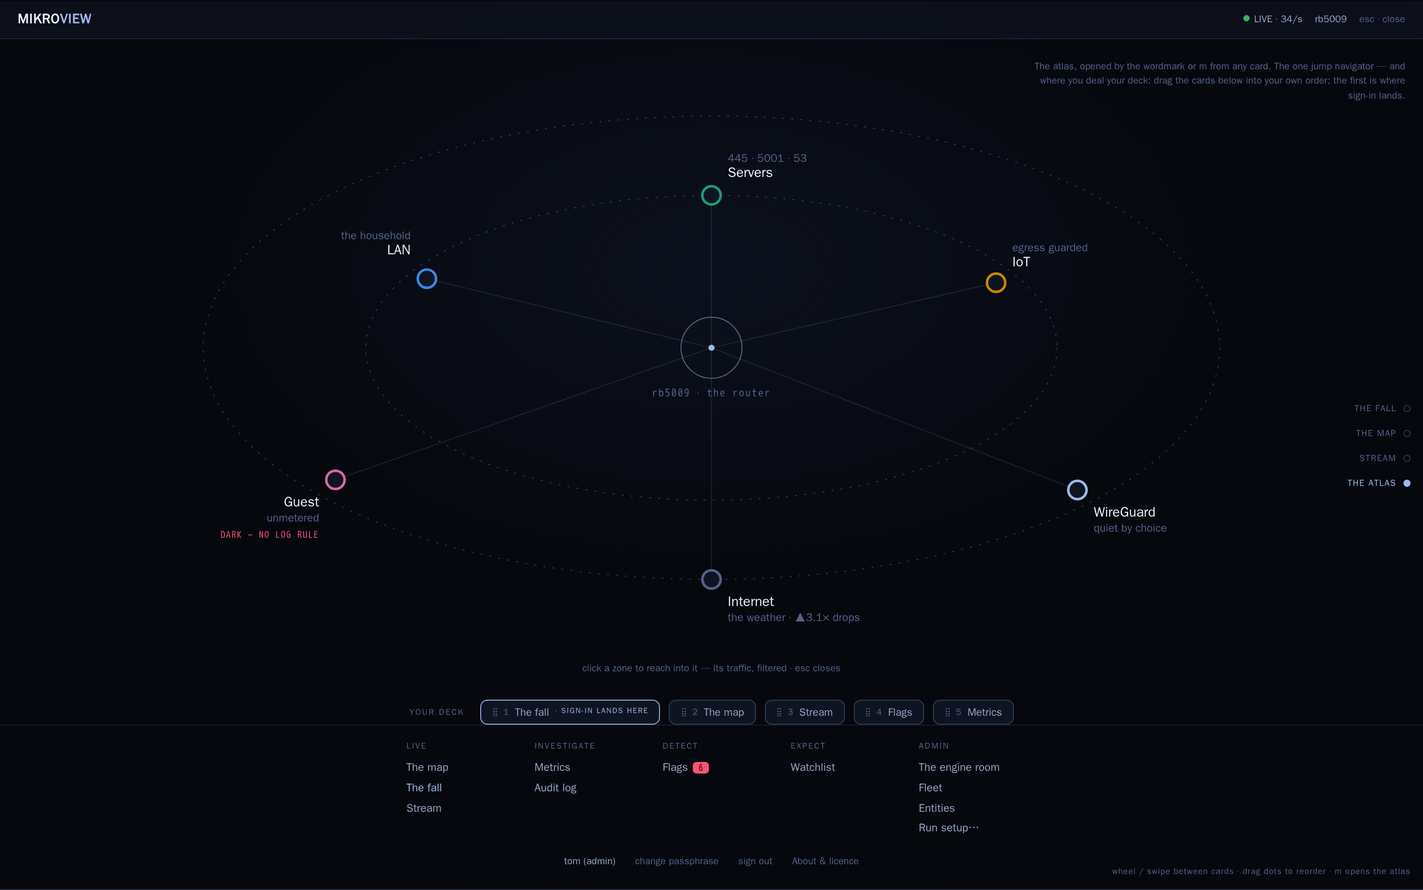
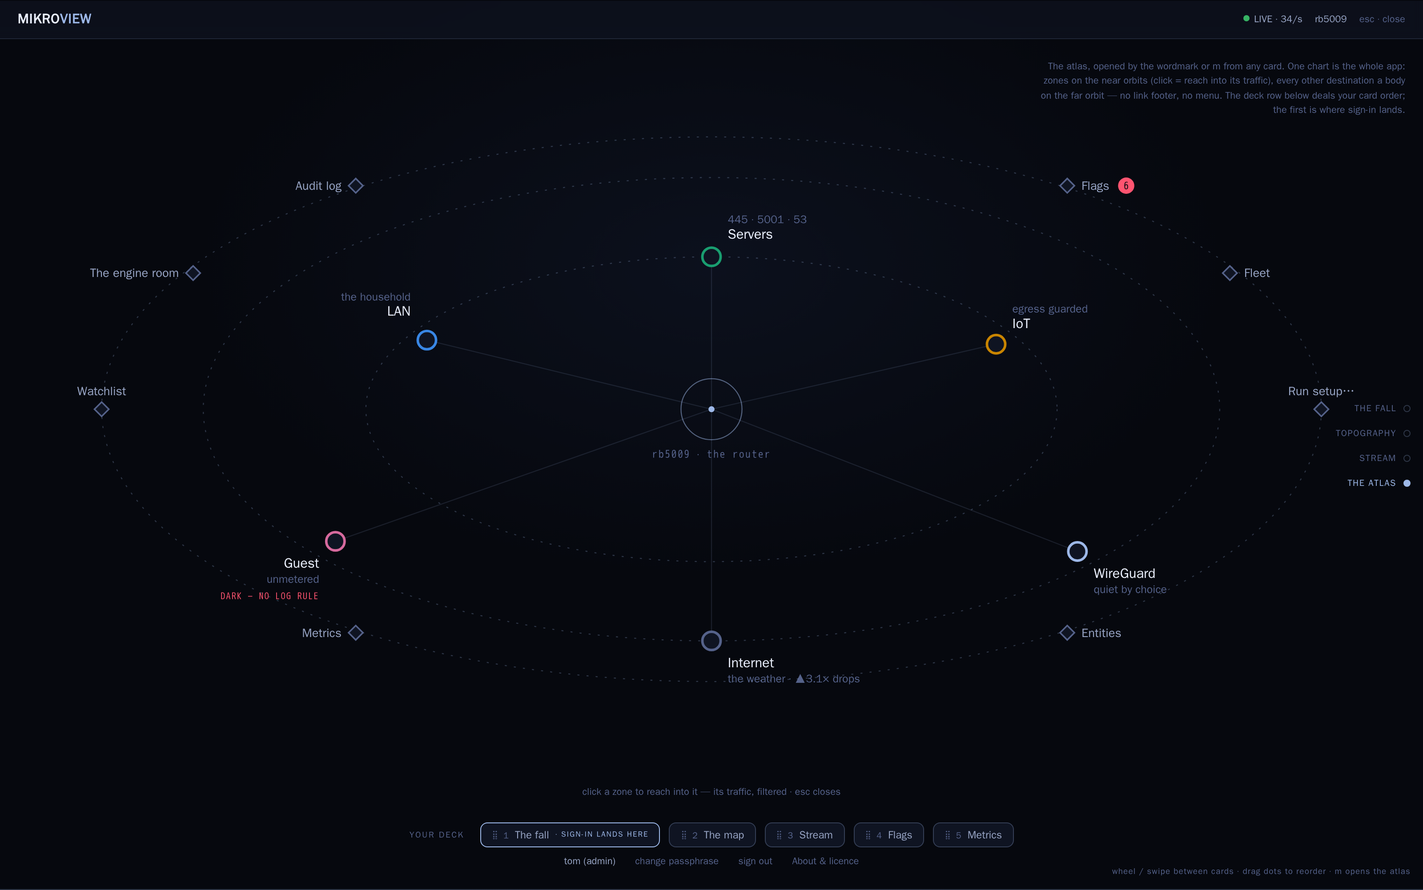
Round 5: topography EXPLORE/ORBIT toggle and far-orbit destinations (#634)

diff --git a/docs/design/concepts/round-5/the-deck.html b/docs/design/concepts/round-5/the-deck.html
@@ -52,7 +52,7 @@
   .scene { min-height: 100vh; position: relative; border-bottom: 1px solid var(--hair-2); overflow: hidden; }
   .scene-tag {
     position: absolute; top: 14px; right: 20px; z-index: 5; max-width: 420px; text-align: right;
-    font-size: 11px; color: var(--ink-3);
+    font-size: 11px; color: var(--ink-3); pointer-events: none;
   }
 
   /* ---- the scene bar: every scene's own chrome, no rail, no toolbar ---- */
@@ -188,6 +188,20 @@
   .fall-legend .r { color: var(--fall-drop); }
   .fall-legend .v { color: #a78bfa; }
 
+  /* ---- the topography card: one graph, two angles ---- */
+  .modechip {
+    margin-left: 18px; font: 600 10.5px var(--mono); letter-spacing: 0.08em;
+    color: var(--accent); background: var(--raised); border: 1px solid var(--hair-2);
+    border-radius: 14px; padding: 3px 14px; cursor: pointer;
+  }
+  #topo .node { transition: transform 0.7s cubic-bezier(0.6, 0, 0.2, 1); transform: var(--ex); }
+  #topo.orbitmode .node { transform: var(--gr); }
+  #topo .isl-card, #topo .g-dot, #topo .exlayer, #topo .grlayer { transition: opacity 0.55s ease; }
+  #topo .g-dot, #topo .grlayer { opacity: 0; pointer-events: none; }
+  #topo.orbitmode .g-dot, #topo.orbitmode .grlayer { opacity: 1; }
+  #topo.orbitmode .isl-card, #topo.orbitmode .exlayer { opacity: 0; pointer-events: none; }
+  @media (prefers-reduced-motion: reduce) { #topo .node { transition: none; } }
+
   /* ---- the deck: snap + the rail ---- */
   html { scroll-snap-type: y mandatory; }
   .scene { scroll-snap-align: start; scroll-snap-stop: always; }
@@ -208,6 +222,12 @@
   .deckorder .card .grip { color: var(--ink-3); letter-spacing: -1px; }
   .deckorder .first { border-color: var(--accent); }
   .deckorder .first .tag { font-size: 8.5px; color: var(--accent); letter-spacing: 0.12em; }
+  .faro-orbit { stroke: var(--hair); }
+  .dest .dg { fill: var(--raised); stroke: var(--ink-3); stroke-width: 1.5; transform: rotate(45deg); }
+  .dest .dest-l { font: 600 12px var(--sans); fill: var(--ink-2); }
+  .dest .dest-b { font: 700 10px var(--mono); fill: var(--void); }
+  .dest:hover .dg { stroke: var(--accent); }
+  .dest:hover .dest-l { fill: var(--ink); }
 
   /* ---- scene 3: the atlas overlay ---- */
   .atlas { min-height: 100vh; display: flex; flex-direction: column; background: radial-gradient(900px 540px at 50% 30%, rgba(80, 115, 205, 0.08), transparent 65%), var(--void); }
@@ -271,7 +291,7 @@
 <div class="concept">
   <b>DIRECTION R</b> The deck — every scene a full-viewport card, scroll-snapped, in the order you choose; sign-in lands on your first card.
   <span style="margin-left:auto">
-    <a href="#s1">door</a><a href="#s2">the fall</a><a href="#s3">the map</a><a href="#s4">stream</a><a href="#s5">the atlas</a>
+    <a href="#s1">door</a><a href="#s2">the fall</a><a href="#s3">topography</a><a href="#s4">stream</a><a href="#s5">the atlas</a>
   </span>
 </div>
 
@@ -477,12 +497,12 @@
   </div>
 </section>
 
-<!-- ============ SCENE 2 : ARRIVAL — THE MAP IS HOME ============ -->
-<section class="scene" id="s3" aria-label="Arrival: the map, the whole network at a glance">
-  <div class="scene-tag" style="top:66px">The map card: your network as the standing fact, the stream underfoot. In the deck it sits wherever you put it.</div>
+<!-- ============ SCENE 3 : TOPOGRAPHY — ONE GRAPH, TWO ANGLES ============ -->
+<section class="scene" id="s3" aria-label="Topography: one graph, two angles — explore and orbit">
+  <div class="scene-tag" style="top:66px">The topography card: one graph, two viewing angles. EXPLORE is the drawn map; ORBIT is the same shape reduced — the atlas's own chart. The toggle really works here: click it and the nodes travel. Same nodes, same adjacency, one mental model.</div>
   <div class="scenebar">
     <span class="wordmark">MIKRO<em>VIEW</em><span class="hintkey">M · ATLAS</span></span>
-    <span class="scname">The map<span class="epi">your network, drawn from its own rules</span></span>
+    <span class="scname">Topography<span class="epi">your network, drawn from its own rules</span></span>
     <span class="scstatus">
       <span><span class="dot"></span>LIVE · 34/s</span>
       <span>rb5009 · RouterOS 7.20.1</span>
@@ -492,104 +512,138 @@
   </div>
   <div class="lenses">
     <span class="lens on">Traffic</span><span class="lens">Policy</span><span class="lens">Coverage</span><span class="lens">Flags<span class="ct">6</span></span><span class="lens">Watch</span>
+    <button class="modechip" id="modechip" onclick="document.getElementById('topo').classList.toggle('orbitmode'); this.textContent = document.getElementById('topo').classList.contains('orbitmode') ? '◍ ORBIT — click for EXPLORE' : '⊕ EXPLORE — click for ORBIT'">⊕ EXPLORE — click for ORBIT</button>
   </div>
 
-  <div class="stage">
+  <div class="stage" id="topo">
     <svg viewBox="0 0 1400 620" preserveAspectRatio="xMidYMid meet" role="img"
-         aria-label="The network map: internet above, router centre, four lanes below, WireGuard at the side. One red arc — an unplanned IoT to LAN flow — is the only saturated element.">
-      <path class="rib" d="M700 104 V 232" stroke="var(--accent)" stroke-width="3.5"/>
-      <path class="rib" d="M645 302 C 565 380, 355 410, 285 480" stroke="var(--lan)" stroke-width="3.5"/>
-      <path class="rib" d="M683 302 C 653 380, 595 420, 577 480" stroke="var(--srv)" stroke-width="2.4"/>
-      <path class="rib" d="M718 302 C 748 380, 818 420, 848 480" stroke="var(--iot)" stroke-width="1.7"/>
-      <path class="rib" d="M756 302 C 846 375, 1050 405, 1116 480" stroke="var(--guest)" stroke-width="1.7"/>
-      <path class="rib" d="M1080 158 C 990 196, 880 232, 830 252" stroke="var(--lan)" stroke-width="1.7"/>
-      <path class="rib-ghost" d="M1100 165 C 945 290, 705 380, 610 476"/>
-      <path class="rib-alarm" d="M828 486 C 725 385, 405 385, 302 486"/>
-
-      <g aria-hidden="true">
-        <circle class="mote" r="2.5" fill="var(--accent)" style="offset-path: path('M700 104 V 232'); animation: travel 1.8s linear infinite;"/>
-        <circle class="mote" r="2.5" fill="var(--lan)" style="offset-path: path('M645 302 C 565 380, 355 410, 285 480'); animation: travel 2.4s linear infinite;"/>
-        <circle class="mote" r="2.2" fill="var(--srv)" style="offset-path: path('M683 302 C 653 380, 595 420, 577 480'); animation: travel 2.8s linear infinite;"/>
-        <circle class="mote" r="2" fill="var(--iot)" style="offset-path: path('M718 302 C 748 380, 818 420, 848 480'); animation: travel 3.4s linear infinite;"/>
-        <circle class="mote" r="2" fill="var(--guest)" style="offset-path: path('M756 302 C 846 375, 1050 405, 1116 480'); animation: travel 3.8s linear infinite;"/>
-        <circle class="mote" r="3" fill="var(--alarm)" style="filter:drop-shadow(0 0 5px var(--alarm)); offset-path: path('M828 486 C 725 385, 405 385, 302 486'); animation: travel 1.9s linear infinite;"/>
+         aria-label="The network as one graph, in two angles: the drawn map, and the same shape reduced to orbits.">
+      <g class="grlayer" aria-hidden="true">
+        <ellipse class="orbit" cx="700" cy="300" rx="340" ry="150"/>
+        <ellipse class="orbit" cx="700" cy="300" rx="500" ry="228"/>
+        <line class="zrib" x1="700" y1="300" x2="420" y2="205"/>
+        <line class="zrib" x1="700" y1="300" x2="700" y2="150"/>
+        <line class="zrib" x1="700" y1="300" x2="980" y2="205"/>
+        <line class="zrib" x1="700" y1="300" x2="330" y2="420"/>
+        <line class="zrib" x1="700" y1="300" x2="1070" y2="420"/>
+        <line class="zrib" x1="700" y1="300" x2="700" y2="528"/>
+      </g>
+      <g class="exlayer">
+        <path class="rib" d="M700 104 V 232" stroke="var(--accent)" stroke-width="3.5"/>
+        <path class="rib" d="M645 302 C 565 380, 355 410, 285 480" stroke="var(--lan)" stroke-width="3.5"/>
+        <path class="rib" d="M683 302 C 653 380, 595 420, 577 480" stroke="var(--srv)" stroke-width="2.4"/>
+        <path class="rib" d="M718 302 C 748 380, 818 420, 848 480" stroke="var(--iot)" stroke-width="1.7"/>
+        <path class="rib" d="M756 302 C 846 375, 1050 405, 1116 480" stroke="var(--guest)" stroke-width="1.7"/>
+        <path class="rib" d="M1080 158 C 990 196, 880 232, 830 252" stroke="var(--lan)" stroke-width="1.7"/>
+        <path class="rib-ghost" d="M1100 165 C 945 290, 705 380, 610 476"/>
+        <path class="rib-alarm" d="M828 486 C 725 385, 405 385, 302 486"/>
+        <g transform="translate(514 396)">
+          <rect x="-12" y="-15" width="234" height="40" rx="9" fill="#170a12" stroke="var(--alarm)" stroke-opacity="0.8"/>
+          <circle cx="2" cy="-2" r="3" fill="var(--alarm)"/>
+          <text x="14" y="1" class="alarm-t">UNPLANNED · iot → lan · tcp/445</text>
+          <text x="14" y="15" class="chip-t">caught by default drop · 14× · open ▸</text>
+        </g>
+        <g transform="translate(742 146)"><text class="alarm-t" x="0" y="0" style="font-size:9px">▲3.1× drops · wan-in</text></g>
       </g>
 
-      <g transform="translate(514 396)">
-        <rect x="-12" y="-15" width="234" height="40" rx="9" fill="#170a12" stroke="var(--alarm)" stroke-opacity="0.8"/>
-        <circle cx="2" cy="-2" r="3" fill="var(--alarm)"/><circle cx="2" cy="-2" r="3" fill="none" stroke="var(--alarm)" class="halo"/>
-        <text x="14" y="1" class="alarm-t">UNPLANNED · iot → lan · tcp/445</text>
-        <text x="14" y="15" class="chip-t">caught by default drop · 14× · open ▸</text>
+      <g class="node" style="--ex: translate(700px, 68px); --gr: translate(700px, 528px)">
+        <g class="isl-card">
+          <rect class="isl" x="-100" y="-30" width="200" height="60" rx="12"/>
+          <text x="-82" y="-3" class="n-name">Internet</text>
+          <text x="-82" y="14" class="n-cidr">ether1 · 203.0.113.7</text>
+          <text x="48" y="-6" class="cov cov-l">LOGGED</text>
+        </g>
+        <g class="g-dot">
+          <circle r="9" class="zone-dot" style="stroke: var(--ink-3)"/>
+          <text x="16" y="26" class="zone-label">Internet</text>
+          <text x="16" y="41" class="zone-epithet">the weather · ▲3.1× drops</text>
+        </g>
       </g>
-      <g transform="translate(742 146)"><text class="alarm-t" x="0" y="0" style="font-size:9px">▲3.1× drops · wan-in</text></g>
-      <g transform="translate(600 448)"><text class="chip-t" x="0" y="0">445 5001 53</text></g>
-      <g transform="translate(238 384)"><text class="chip-t" x="0" y="0">any → wan · 9/s</text></g>
-      <g transform="translate(940 400)"><text class="chip-t" x="0" y="0">wan only · dark</text></g>
-
-      <g transform="translate(700 68)">
-        <rect class="isl" x="-100" y="-30" width="200" height="60" rx="12"/>
-        <text x="-82" y="-3" class="n-name">Internet</text>
-        <text x="-82" y="14" class="n-cidr">ether1 · 203.0.113.7</text>
-        <text x="48" y="-6" class="cov cov-l">LOGGED</text>
+      <g class="node" style="--ex: translate(700px, 268px); --gr: translate(700px, 300px)">
+        <g class="isl-card">
+          <rect class="isl" x="-128" y="-34" width="256" height="68" rx="12" stroke="rgba(157,184,232,0.4)"/>
+          <text x="-110" y="-6" class="n-name">rb5009</text>
+          <text x="-110" y="12" class="n-sub">RouterOS 7.20.1 · the waist · 41 rules</text>
+        </g>
+        <g class="g-dot">
+          <circle r="30" class="station-ring"/>
+          <circle r="3" class="station-core"/>
+          <text y="48" text-anchor="middle" class="station-label">rb5009 · the router</text>
+        </g>
       </g>
-      <g transform="translate(700 268)">
-        <rect class="isl" x="-128" y="-34" width="256" height="68" rx="12" stroke="rgba(157,184,232,0.4)"/>
-        <text x="-110" y="-6" class="n-name">rb5009</text>
-        <text x="-110" y="12" class="n-sub">RouterOS 7.20.1 · the waist · 41 rules</text>
+      <g class="node" style="--ex: translate(1128px, 132px); --gr: translate(1070px, 420px)">
+        <g class="isl-card">
+          <rect class="isl" x="-84" y="-28" width="188" height="56" rx="12"/>
+          <text x="-66" y="-2" class="n-name" style="font-size:13px">WireGuard</text>
+          <text x="-66" y="14" class="n-cidr">wg0 · 203.0.113.0/24</text>
+          <text x="54" y="-4" class="cov cov-q">QUIET</text>
+        </g>
+        <g class="g-dot">
+          <circle r="9" class="zone-dot" style="stroke: var(--accent)"/>
+          <text x="16" y="26" class="zone-label">WireGuard</text>
+          <text x="16" y="41" class="zone-epithet">quiet by choice</text>
+        </g>
       </g>
-      <g transform="translate(1128 132)">
-        <rect class="isl" x="-84" y="-28" width="188" height="56" rx="12"/>
-        <text x="-66" y="-2" class="n-name" style="font-size:13px">WireGuard</text>
-        <text x="-66" y="14" class="n-cidr">wg0 · 203.0.113.0/24</text>
-        <text x="54" y="-4" class="cov cov-q">QUIET</text>
+      <g class="node" style="--ex: translate(285px, 490px); --gr: translate(420px, 205px)">
+        <g class="isl-card">
+          <rect class="isl" x="-108" y="0" width="216" height="106" rx="12"/>
+          <circle cx="-90" cy="22" r="3.5" fill="var(--lan)"/>
+          <text x="-79" y="26" class="n-name">LAN</text><text x="22" y="26" class="n-cidr">203.0.113.0/24</text>
+          <text x="-90" y="52" class="n-sub" style="font-size:10px">alex-desktop · phone-alex · laptop-anna · +9</text>
+          <text x="-90" y="86" class="cov cov-l">LOGGED BOTH WAYS</text>
+        </g>
+        <g class="g-dot">
+          <circle r="9" class="zone-dot" style="stroke: var(--lan)"/>
+          <text x="-16" y="-18" text-anchor="end" class="zone-label">LAN</text>
+          <text x="-16" y="-33" text-anchor="end" class="zone-epithet">the household</text>
+        </g>
       </g>
-
-      <g transform="translate(285 490)">
-        <rect class="isl" x="-108" y="0" width="216" height="106" rx="12"/>
-        <circle cx="-90" cy="22" r="3.5" fill="var(--lan)"/>
-        <text x="-79" y="26" class="n-name">LAN</text><text x="22" y="26" class="n-cidr">203.0.113.0/24</text>
-        <text x="-90" y="52" class="n-sub" style="font-size:10px">alex-desktop · phone-alex · laptop-anna · +9</text>
-        <text x="-90" y="86" class="cov cov-l">LOGGED BOTH WAYS</text>
+      <g class="node" style="--ex: translate(577px, 490px); --gr: translate(700px, 150px)">
+        <g class="isl-card">
+          <rect class="isl" x="-108" y="0" width="216" height="106" rx="12"/>
+          <circle cx="-90" cy="22" r="3.5" fill="var(--srv)"/>
+          <text x="-79" y="26" class="n-name">Servers</text><text x="22" y="26" class="n-cidr">198.51.100.0/24</text>
+          <text x="-90" y="52" class="n-sub" style="font-size:10px">nas · pihole · unifi</text>
+          <text x="-90" y="86" class="cov cov-l">LOGGED BOTH WAYS</text>
+        </g>
+        <g class="g-dot">
+          <circle r="9" class="zone-dot" style="stroke: var(--srv)"/>
+          <text x="16" y="-18" class="zone-label">Servers</text>
+          <text x="16" y="-33" class="zone-epithet">445 · 5001 · 53</text>
+        </g>
       </g>
-      <g transform="translate(577 490)">
-        <rect class="isl" x="-108" y="0" width="216" height="106" rx="12"/>
-        <circle cx="-90" cy="22" r="3.5" fill="var(--srv)"/>
-        <text x="-79" y="26" class="n-name">Servers</text><text x="22" y="26" class="n-cidr">198.51.100.0/24</text>
-        <text x="-90" y="52" class="n-sub" style="font-size:10px">nas · pihole · unifi</text>
-        <text x="-90" y="86" class="cov cov-l">LOGGED BOTH WAYS</text>
+      <g class="node" style="--ex: translate(848px, 490px); --gr: translate(980px, 205px)">
+        <g class="isl-card">
+          <rect class="isl" x="-108" y="0" width="216" height="106" rx="12"/>
+          <circle cx="-90" cy="22" r="3.5" fill="var(--iot)"/>
+          <text x="-79" y="26" class="n-name">IoT</text><text x="22" y="26" class="n-cidr">198.51.100.0/24</text>
+          <text x="-90" y="52" class="n-sub" style="font-size:10px">cam-porch · hue-bridge · thermostat · +4</text>
+          <text x="-90" y="86" class="cov cov-l">LOGGED BOTH WAYS</text>
+        </g>
+        <g class="g-dot">
+          <circle r="9" class="zone-dot" style="stroke: var(--iot)"/>
+          <circle r="14" fill="none" stroke="var(--alarm)" stroke-width="1.2" class="halo"/>
+          <text x="16" y="-18" class="zone-label">IoT</text>
+          <text x="16" y="-33" class="zone-epithet">egress guarded</text>
+        </g>
       </g>
-      <g transform="translate(848 490)">
-        <rect class="isl" x="-108" y="0" width="216" height="106" rx="12"/>
-        <circle cx="-90" cy="22" r="3.5" fill="var(--iot)"/>
-        <text x="-79" y="26" class="n-name">IoT</text><text x="22" y="26" class="n-cidr">198.51.100.0/24</text>
-        <text x="-90" y="52" class="n-sub" style="font-size:10px">cam-porch · hue-bridge · thermostat · +4</text>
-        <text x="-90" y="86" class="cov cov-l">LOGGED BOTH WAYS</text>
-        <circle cx="-58" cy="48" r="4" fill="none" stroke="var(--alarm)" stroke-width="1.2" class="halo"/>
-      </g>
-      <g transform="translate(1116 490)">
-        <rect class="isl" x="-108" y="0" width="216" height="106" rx="12"/>
-        <circle cx="-90" cy="22" r="3.5" fill="var(--guest)"/>
-        <text x="-79" y="26" class="n-name">Guest</text><text x="22" y="26" class="n-cidr">192.0.2.0/24</text>
-        <text x="-90" y="52" class="n-sub" style="font-size:10px">guest-e8b2 · +2</text>
-        <text x="-90" y="74" class="cov cov-d">DARK TOWARD WAN</text>
-        <text x="-90" y="88" class="n-sub">no log rule on this boundary</text>
+      <g class="node" style="--ex: translate(1116px, 490px); --gr: translate(330px, 420px)">
+        <g class="isl-card">
+          <rect class="isl" x="-108" y="0" width="216" height="106" rx="12"/>
+          <circle cx="-90" cy="22" r="3.5" fill="var(--guest)"/>
+          <text x="-79" y="26" class="n-name">Guest</text><text x="22" y="26" class="n-cidr">192.0.2.0/24</text>
+          <text x="-90" y="52" class="n-sub" style="font-size:10px">guest-e8b2 · +2</text>
+          <text x="-90" y="74" class="cov cov-d">DARK TOWARD WAN</text>
+          <text x="-90" y="88" class="n-sub">no log rule on this boundary</text>
+        </g>
+        <g class="g-dot">
+          <circle r="9" class="zone-dot" style="stroke: var(--guest)"/>
+          <text x="-16" y="26" text-anchor="end" class="zone-label">Guest</text>
+          <text x="-16" y="41" text-anchor="end" class="zone-epithet">unmetered</text>
+          <text x="-16" y="57" text-anchor="end" class="zone-state bad">DARK — NO LOG RULE</text>
+        </g>
       </g>
     </svg>
-  </div>
-
-  <div class="scrub">
-    <div class="row"><span>Last 15 min</span><span class="live">● LIVE</span></div>
-    <svg viewBox="0 0 276 26" preserveAspectRatio="none" aria-label="Timeline of the last fifteen minutes, playhead at live">
-      <polyline points="0,16 14,15 28,17 42,13 56,15 70,11 84,13 98,9 112,12 126,5 140,9 154,12 168,10 182,13 196,11 210,9 224,12 238,8 252,10 266,9 276,10"/>
-      <line x1="274" y1="2" x2="274" y2="26"/>
-    </svg>
-  </div>
-
-  <div class="ticker">
-    <div class="head"><span><i></i>The stream · 34/s</span><span class="lift">▲ lift to the full stream</span></div>
-    <div class="trow"><span class="t">14:02:11.482</span><span class="badge b-drop">DROP</span><span>cam-porch → nas :445 smb · iot-to-lan-drop</span></div>
-    <div class="trow"><span class="t">14:02:11.407</span><span class="badge b-nat">NAT</span><span>phone-alex → 192.0.2.206 :443 quic · nat-wan</span></div>
-    <div class="trow"><span class="t">14:02:10.951</span><span class="badge b-drop">DROP</span><span>198.51.100.34 DE → rb5009 :8291 winbox · wan-in-drop</span></div>
   </div>
 </section>
 
@@ -645,7 +699,7 @@
 
 <!-- ============ SCENE 3 : THE ATLAS — THE ONE NAVIGATOR ============ -->
 <section class="scene atlas" id="s5" aria-label="The atlas overlay: the network on orbit, and everywhere the app goes">
-  <div class="scene-tag" style="top:66px">The atlas, opened by the wordmark or <b>m</b> from any card. The one jump navigator — and where you deal your deck: drag the cards below into your own order; the first is where sign-in lands.</div>
+  <div class="scene-tag" style="top:66px">The atlas, opened by the wordmark or <b>m</b> from any card. One chart is the whole app: zones on the near orbits (click = reach into its traffic), every other destination a body on the far orbit — no link footer, no menu. The deck row below deals your card order; the first is where sign-in lands.</div>
   <div class="scenebar">
     <span class="wordmark">MIKRO<em>VIEW</em></span>
     <span class="scstatus">
@@ -702,6 +756,20 @@
         <text x="716" y="534" class="zone-label">Internet</text>
         <text x="716" y="549" class="zone-epithet">the weather · ▲3.1× drops</text>
       </g>
+      <!-- The far orbit: everywhere else the app goes. Not a footer of
+           links — destinations are bodies on the atlas's outermost
+           orbit, the same chart language as the zones they sit beyond. -->
+      <g class="faro" aria-label="Destinations, on the far orbit">
+        <ellipse class="orbit faro-orbit" cx="700" cy="280" rx="600" ry="268"/>
+        <g class="dest" transform="translate(350 60)"><rect class="dg" x="-5" y="-5" width="10" height="10"/><text x="-14" y="4" text-anchor="end" class="dest-l">Audit log</text></g>
+        <g class="dest" transform="translate(1050 60)"><rect class="dg" x="-5" y="-5" width="10" height="10"/><text x="14" y="4" class="dest-l">Flags</text><circle cx="58" cy="0" r="8" fill="var(--alarm)"/><text x="58" y="3.5" text-anchor="middle" class="dest-b">6</text></g>
+        <g class="dest" transform="translate(100 280)"><rect class="dg" x="-5" y="-5" width="10" height="10"/><text x="0" y="-14" text-anchor="middle" class="dest-l">Watchlist</text></g>
+        <g class="dest" transform="translate(1300 280)"><rect class="dg" x="-5" y="-5" width="10" height="10"/><text x="0" y="-14" text-anchor="middle" class="dest-l">Run setup…</text></g>
+        <g class="dest" transform="translate(350 500)"><rect class="dg" x="-5" y="-5" width="10" height="10"/><text x="-14" y="4" text-anchor="end" class="dest-l">Metrics</text></g>
+        <g class="dest" transform="translate(1050 500)"><rect class="dg" x="-5" y="-5" width="10" height="10"/><text x="14" y="4" class="dest-l">Entities</text></g>
+        <g class="dest" transform="translate(190 146)"><rect class="dg" x="-5" y="-5" width="10" height="10"/><text x="-14" y="4" text-anchor="end" class="dest-l">The engine room</text></g>
+        <g class="dest" transform="translate(1210 146)"><rect class="dg" x="-5" y="-5" width="10" height="10"/><text x="14" y="4" class="dest-l">Fleet</text></g>
+      </g>
     </svg>
   </div>
   <p class="hint">click a zone to reach into it — its traffic, filtered · esc closes</p>
@@ -713,36 +781,13 @@
     <span class="card"><span class="grip">⠿</span><span class="n">4</span>Flags</span>
     <span class="card"><span class="grip">⠿</span><span class="n">5</span>Metrics</span>
   </div>
-  <nav class="ports" aria-label="Destinations">
-    <div class="pgroup"><span class="pname">Live</span>
-      <span class="port">The map</span>
-      <span class="port on">The fall</span>
-      <span class="port">Stream</span>
-    </div>
-    <div class="pgroup"><span class="pname">Investigate</span>
-      <span class="port">Metrics</span>
-      <span class="port">Audit log</span>
-    </div>
-    <div class="pgroup"><span class="pname">Detect</span>
-      <span class="port">Flags<span class="badge" style="color:var(--void);background:var(--alarm)">6</span></span>
-    </div>
-    <div class="pgroup"><span class="pname">Expect</span>
-      <span class="port">Watchlist</span>
-    </div>
-    <div class="pgroup"><span class="pname">Admin</span>
-      <span class="port">The engine room</span>
-      <span class="port">Fleet</span>
-      <span class="port">Entities</span>
-      <span class="port">Run setup…</span>
-    </div>
-  </nav>
   <div class="account"><b>alex (admin)</b><span>change passphrase</span><span>sign out</span><span>About &amp; licence</span></div>
 </section>
 
 
 <nav class="deckrail" aria-label="The deck">
   <a href="#s2" class="on"><span class="dot"></span>The fall</a>
-  <a href="#s3"><span class="dot"></span>The map</a>
+  <a href="#s3"><span class="dot"></span>Topography</a>
   <a href="#s4"><span class="dot"></span>Stream</a>
   <a href="#s5"><span class="dot"></span>The atlas</a>
 </nav>

diff --git a/docs/design/concepts/round-5/README.md b/docs/design/concepts/round-5/README.md
@@ -80,6 +80,25 @@ apparatus, not design.
   format of rounds 1–5 was review apparatus; R adopts it deliberately
   as the interaction model.
 
+## The owner's second batch (2026-08-30), and what it did to R
+
+- **Topography ⇄ atlas chart unified**: "should [the atlas chart] be
+  a reduced version of the Topography graph from a different viewing
+  angle? ... maybe it's not even its own screen, and we just have a
+  cool looking slider/click toggle that switches (with a cool
+  transition) between the graph and explore (map) views?" Built: the
+  deck's topography card carries an EXPLORE ⇄ ORBIT toggle — one SVG,
+  one node set, two coordinate systems; the nodes travel on toggle.
+  #485's Map and the atlas's chart become two angles of one graph.
+- **The destinations footer rejected**: "don't like the presentation
+  of the links at the bottom ... those do belong in some kind of menu
+  somewhere ... I don't want a cookie cutter boring menu." Built: the
+  far orbit — destinations drawn as diamond bodies on the atlas's
+  outermost orbit, same chart language as the zones; the footer grid
+  is gone. (Fallback candidate if this misses: a radial menu around
+  the router station.)
+
 ## Owner verdicts
 
-- Door v1: rejected (above). Door v2 and direction R: pending.
+- Door v1: rejected. P/Q framing: rejected, superseded by R.
+- Door v2, direction R, the topography toggle, the far orbit: pending.
